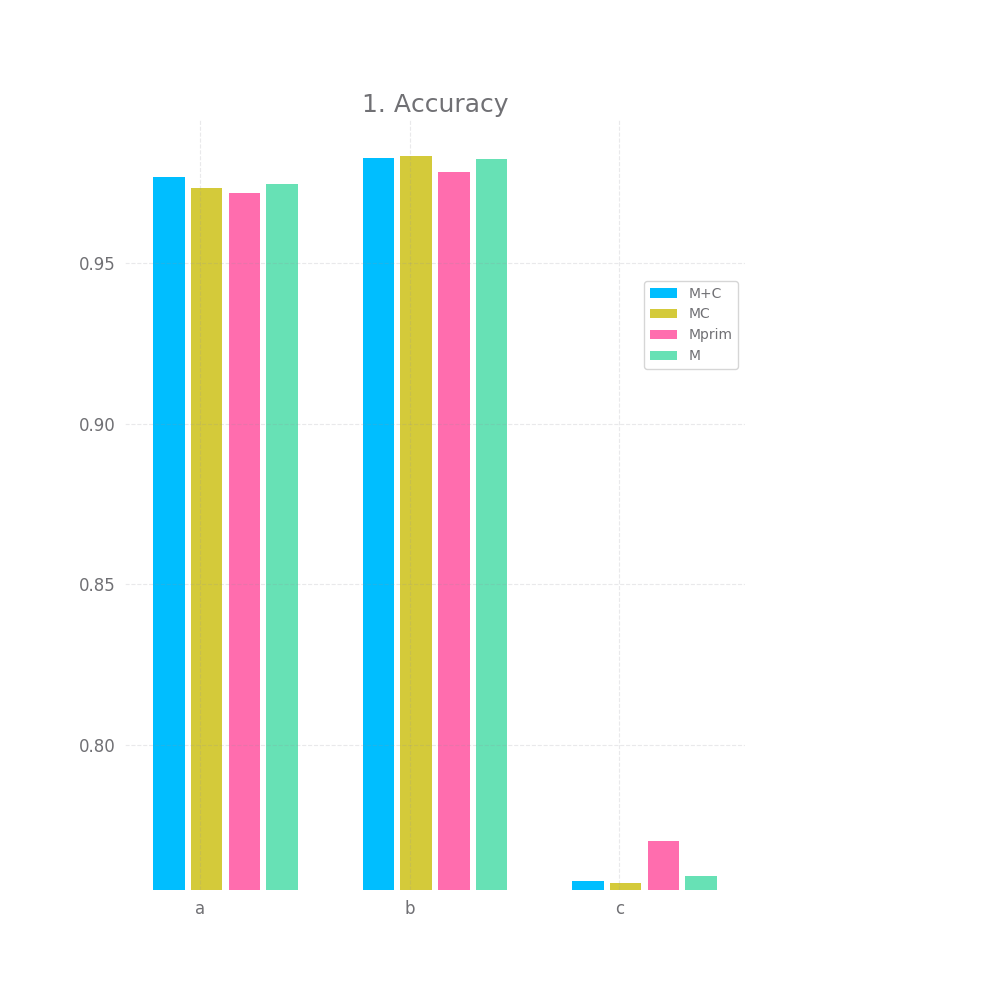
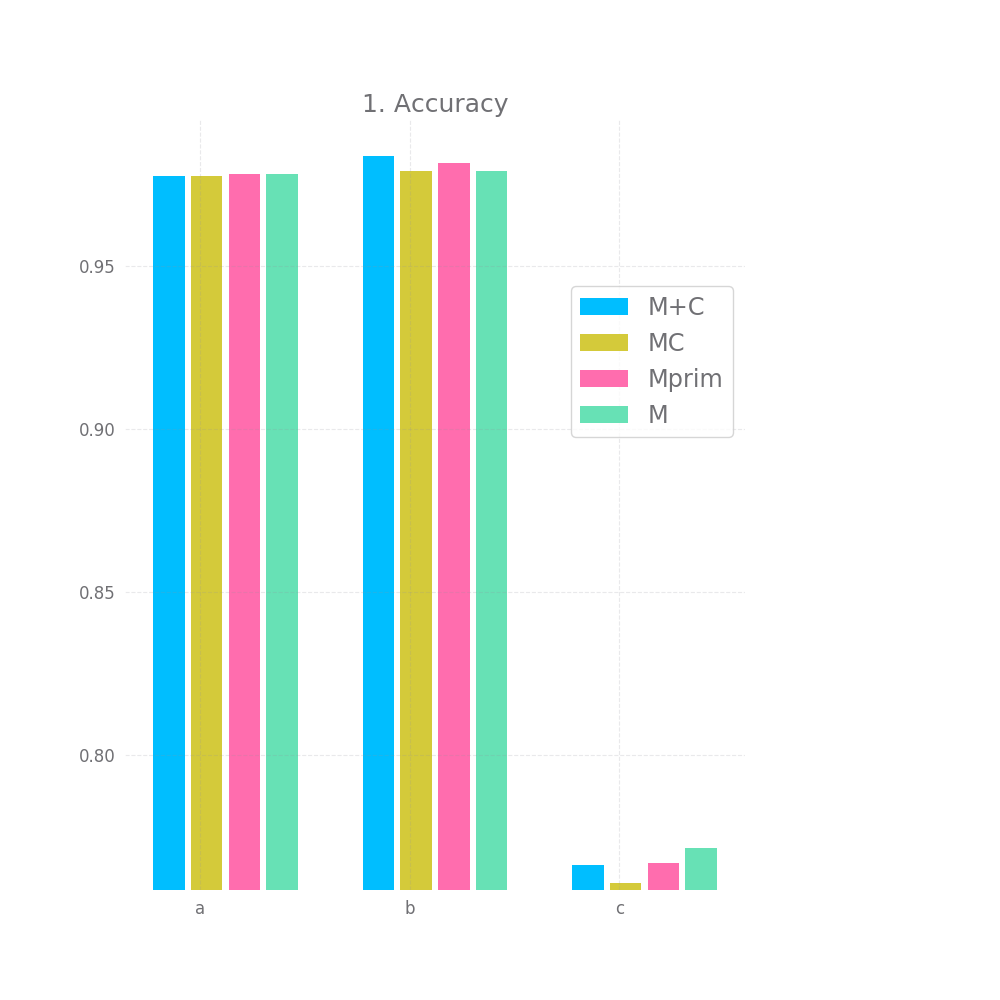
added missing plot

diff --git a/plotting.py b/plotting.py
@@ -51,14 +51,14 @@ for dataset in model_perf_map:
         for model in v:
             val = v[model]/model_perf_cnt_map[dataset][k][model]
             print(f'{model} - {val}')
-exit()
+#exit()
 
 data = json.load(open('results/Results_6_batch2.json','r'))
 
 dataset_arr = ['a','b','c']
 model_arr = ['M+C','MC','Mprim','M']
 mode = 'relative'
-mode = 'absolute'
+#mode = 'absolute'
 
 plt.rcParams["figure.figsize"] = (10,10)
 for metric in data['6']['polynomial_w_coef']['M']['a'].keys():
